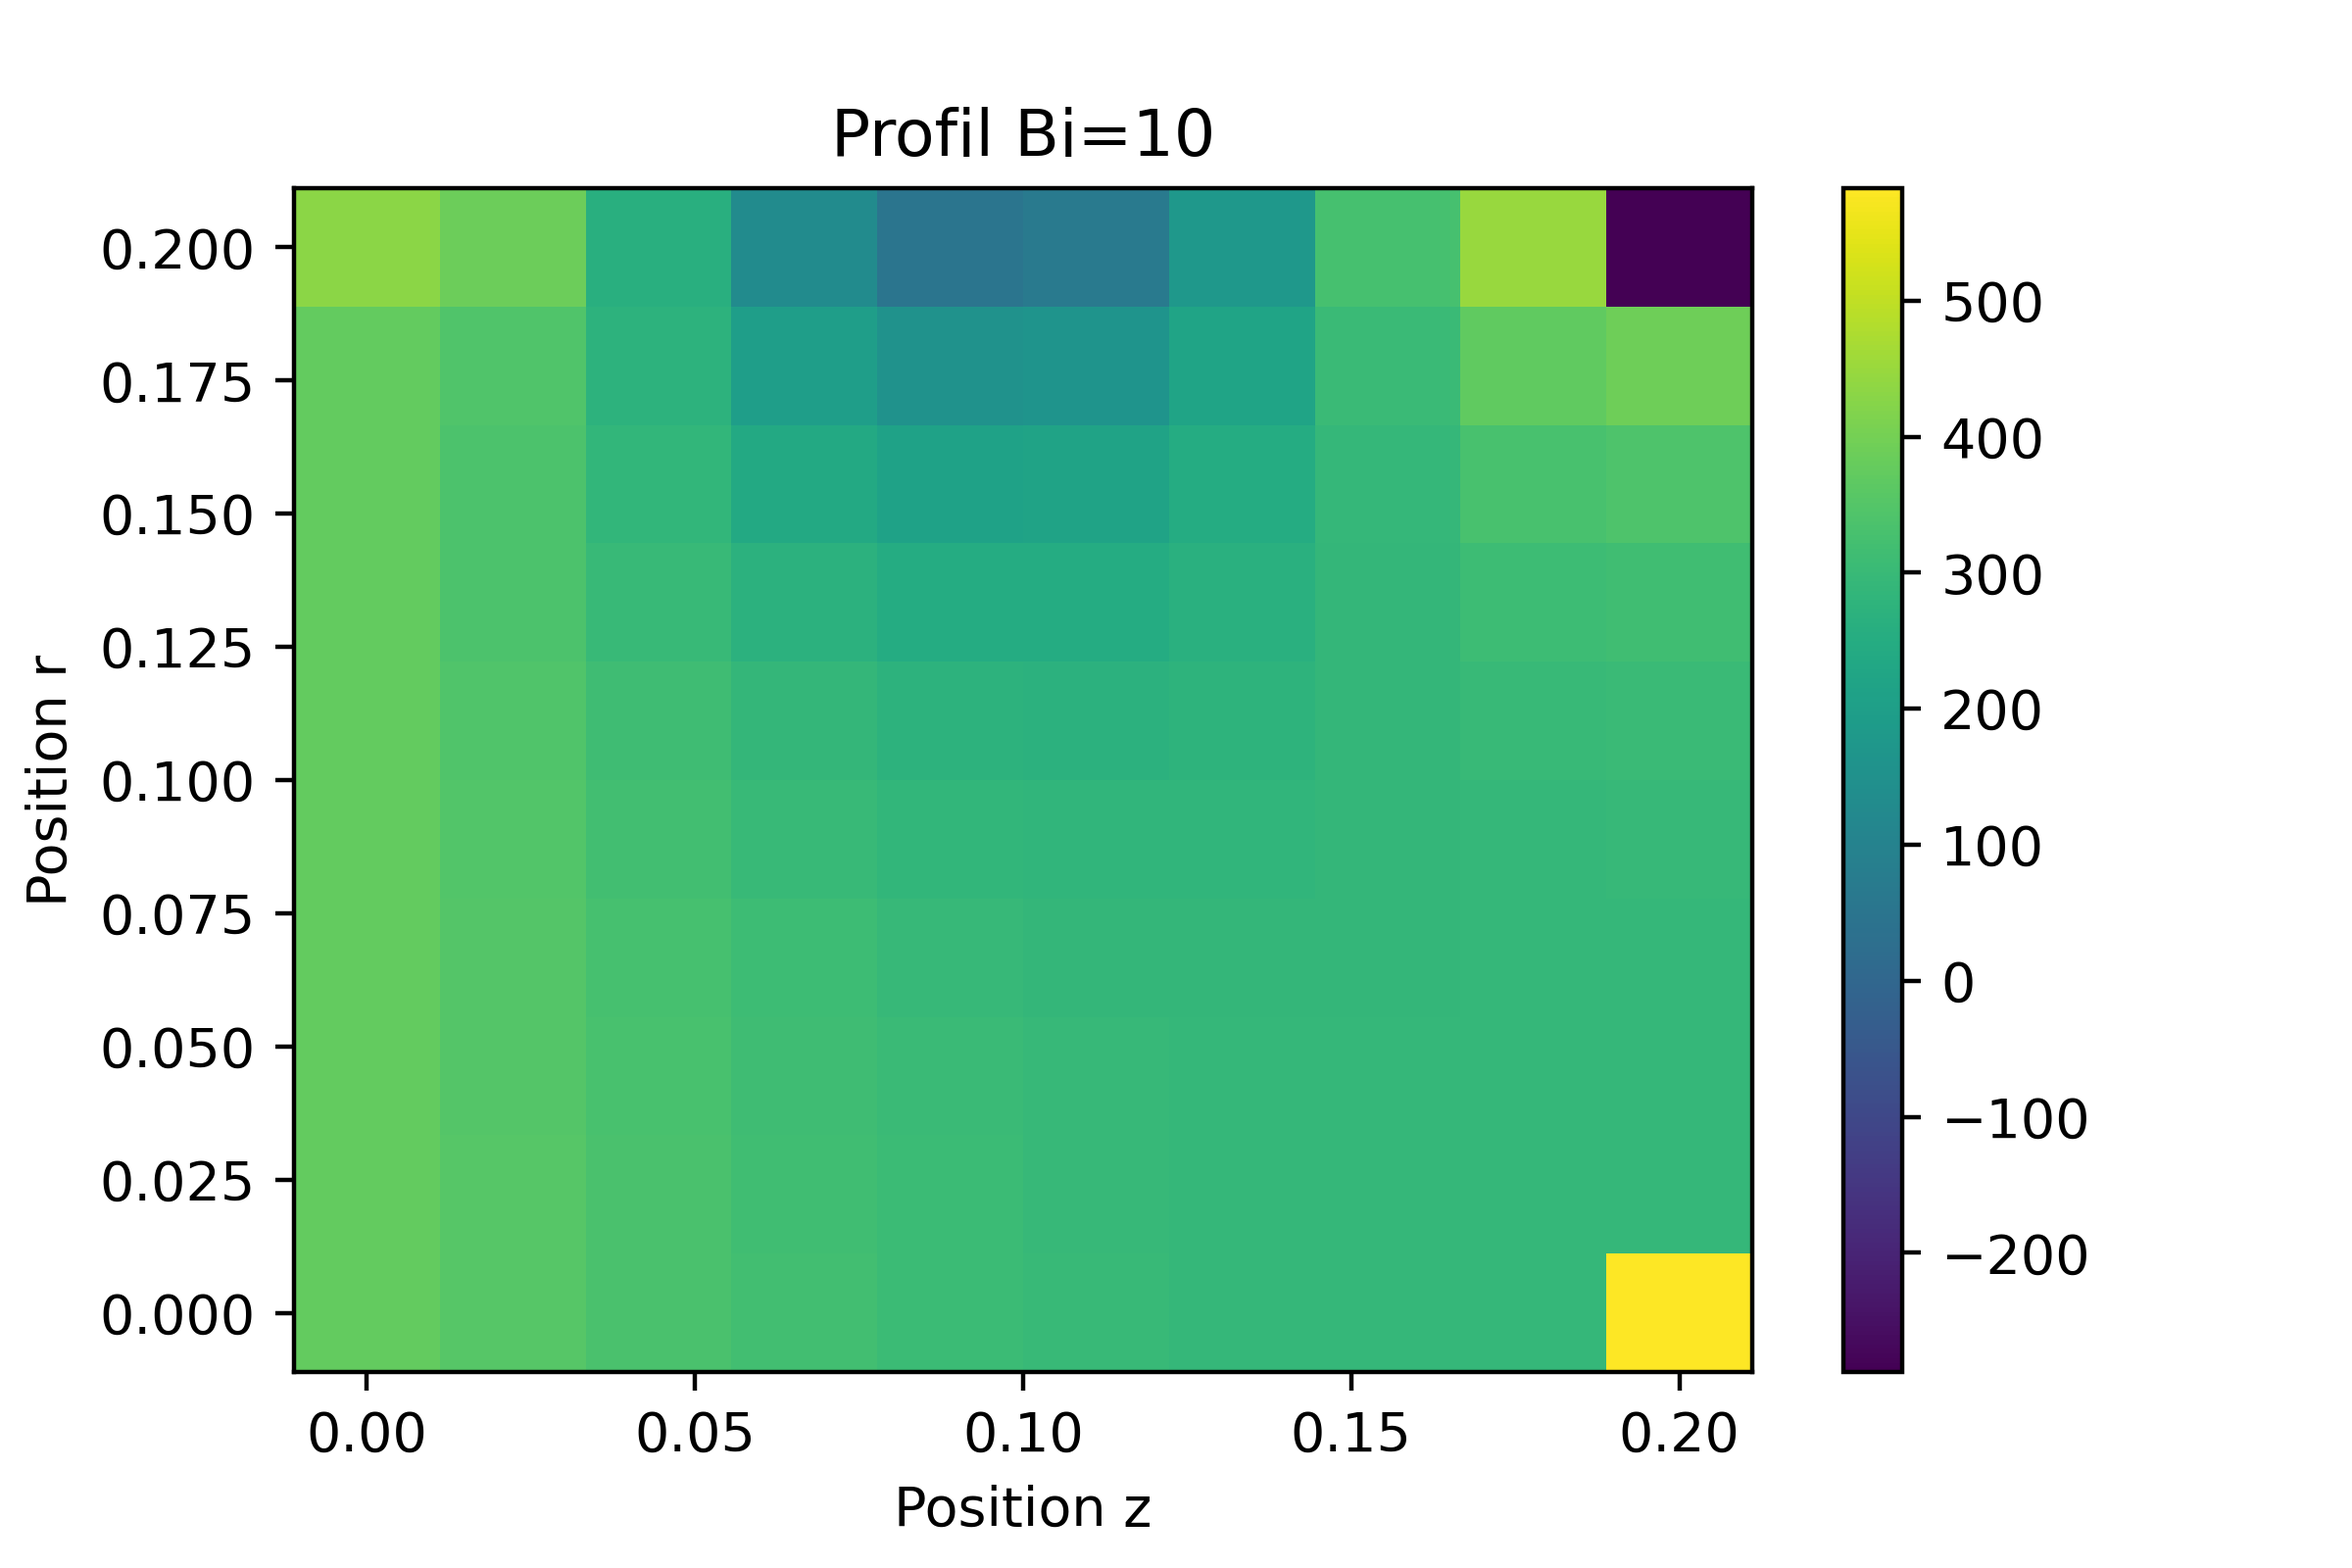
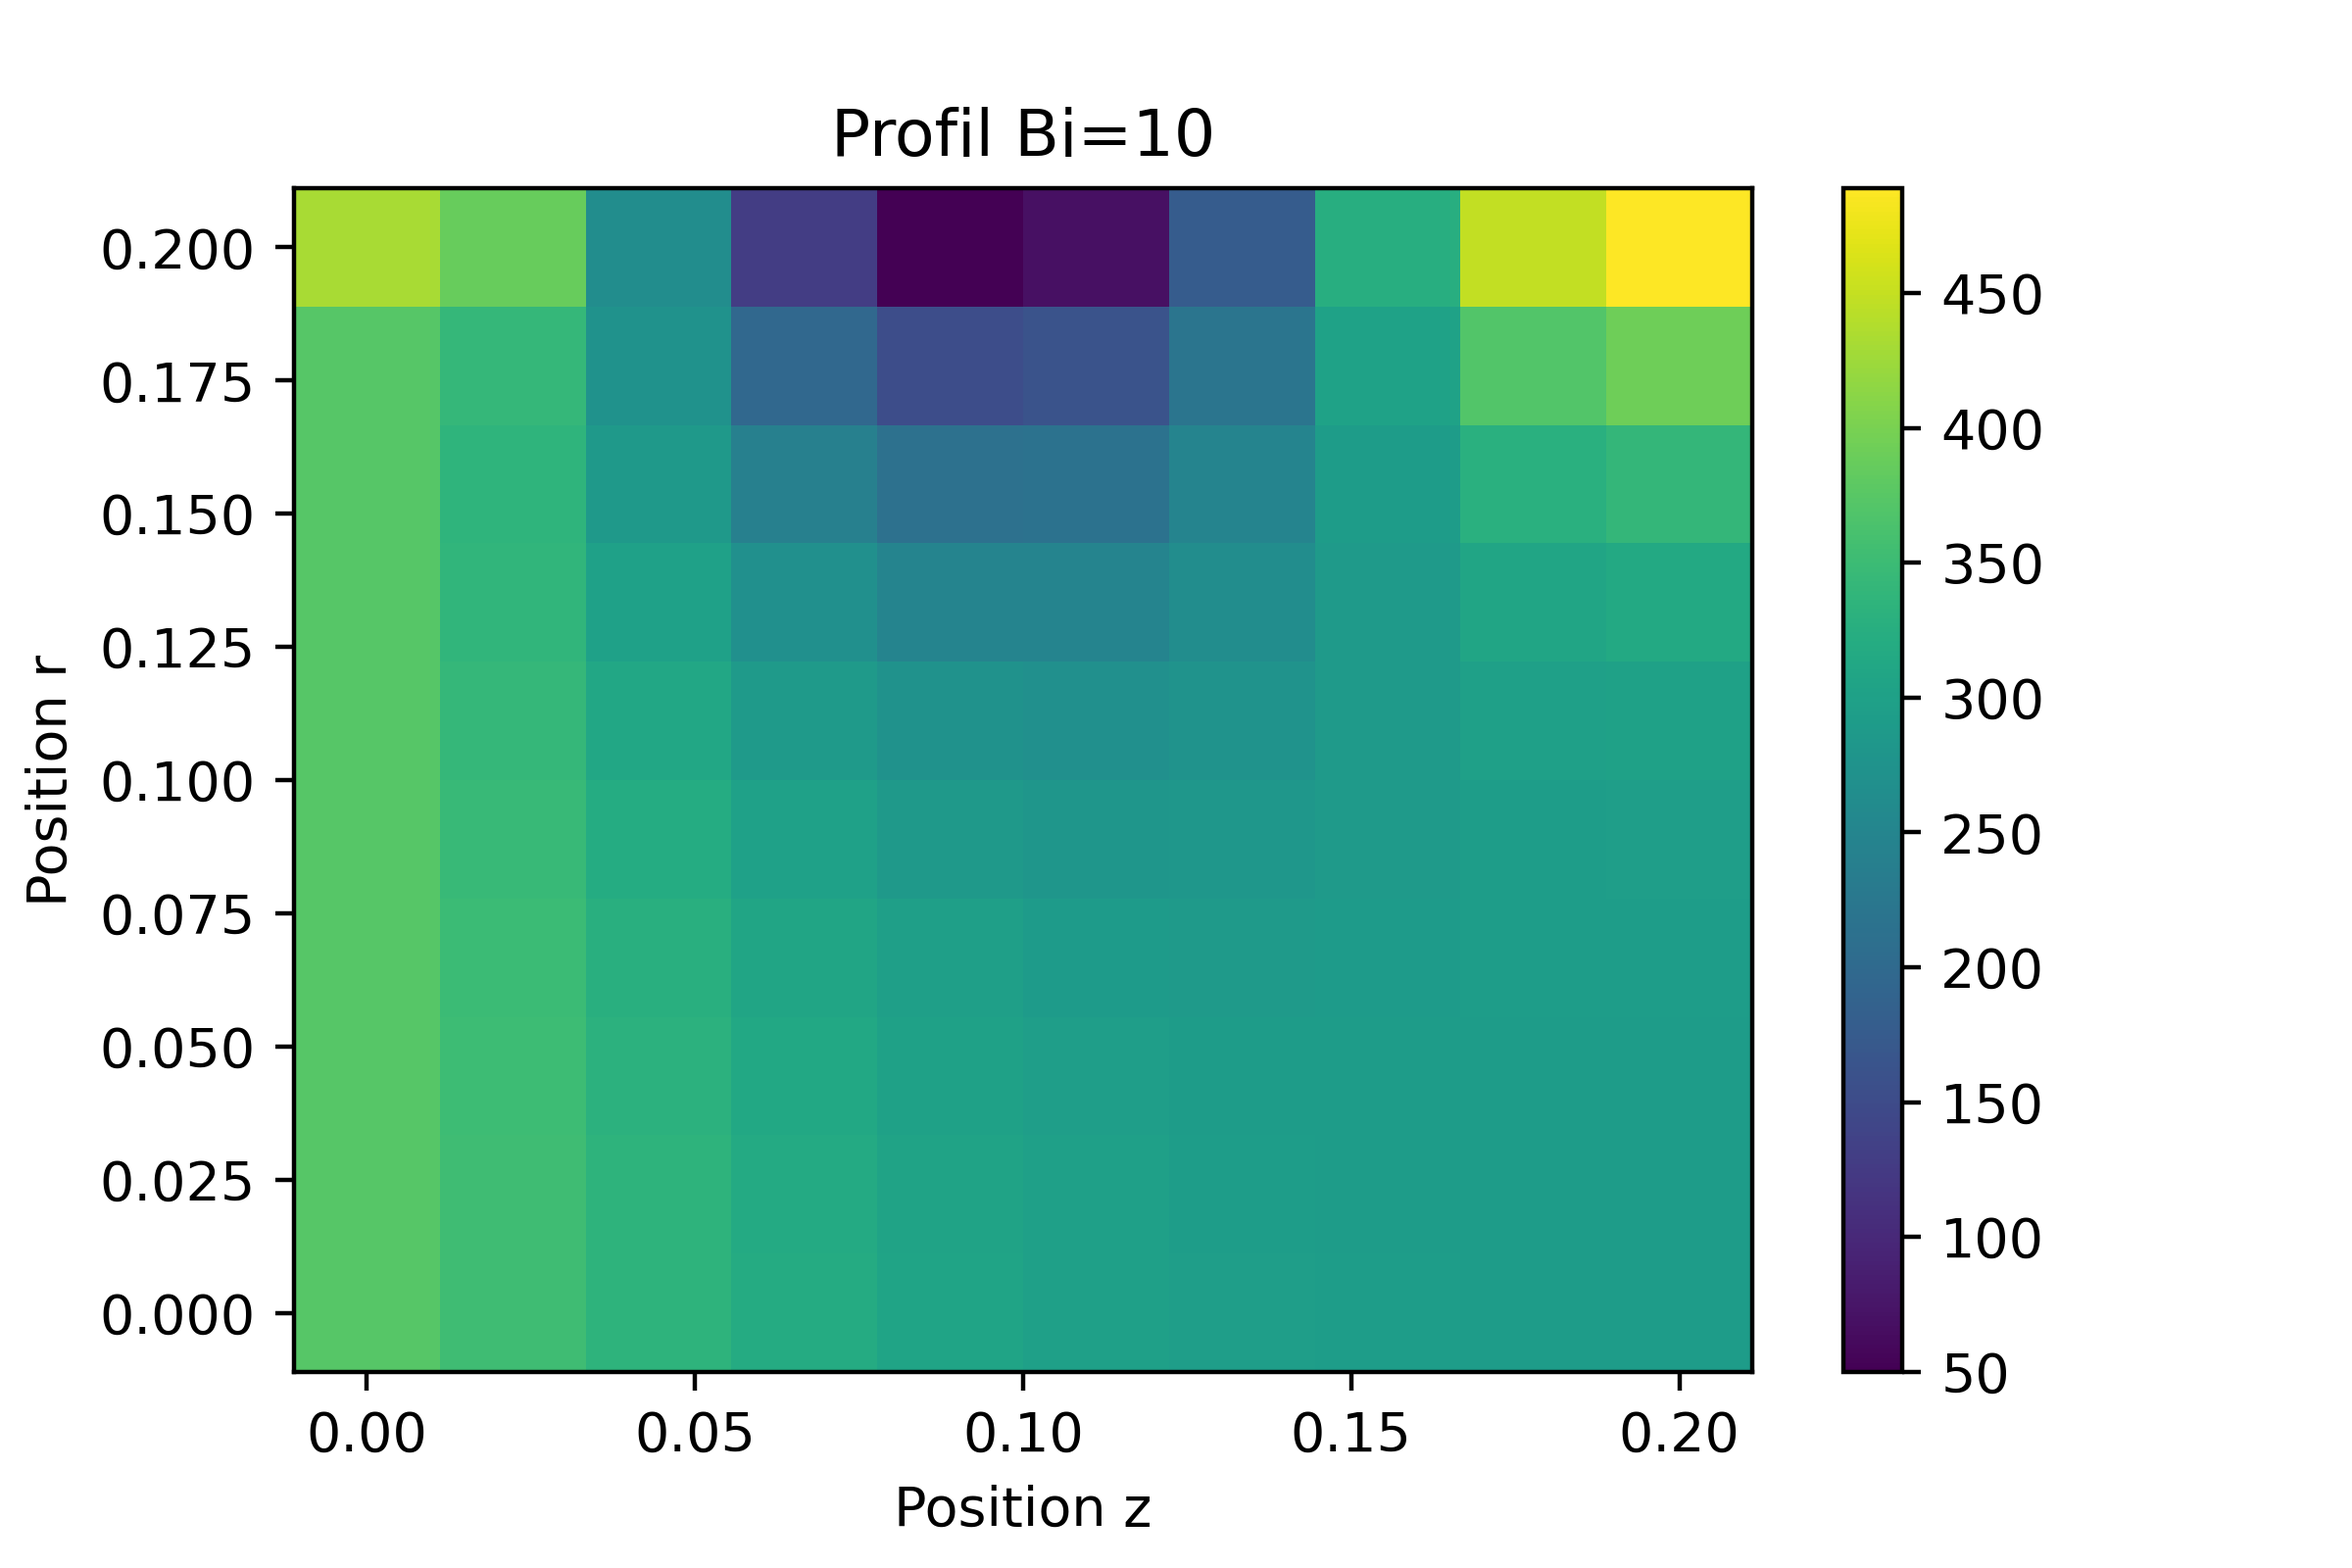
add fix?

diff --git a/profil.py b/profil.py
@@ -35,22 +35,26 @@ def position(X,Y,prm):
     nr = prm.nr
     nz = prm.nz
 
-    # Calcul des pas de discretisation
-    dr = (Y[1] - Y[0]) / (nr-1)
-    dz = (X[1] - X[0]) / (nz-1)
+    # # Calcul des pas de discretisation
+    # dr = (Y[1] - Y[0]) / (nr-1)
+    # dz = (X[1] - X[0]) / (nz-1)
 
     
-    x_ligne=np.linspace(X[0], X[1], nz)
-    x = np.zeros([nr,nz])
-    x[:,:] = x_ligne
+    # x_ligne=np.linspace(X[0], X[1], nz)
+    # x = np.zeros([nr,nz])
+    # x[:,:] = x_ligne
     
-    y_ligne = np.linspace(Y[0], Y[1], nr)
-    y = np.zeros([nr,nz])
-    y[:,:] = y_ligne
-    y = y.T
-    y = np.flipud(y)
+    # y_ligne = np.linspace(Y[0], Y[1], nr)
+    # y = np.zeros([nr,nz])
+    # y[:,:] = y_ligne
+    # y = y.T
+    # y = np.flipud(y)
     
-    return x, y
+    x = np.linspace(X[0], X[1], nz)
+    y = np.linspace(Y[1], Y[0], nr) 
+    xv, yv = np.meshgrid(x, y)
+    
+    return xv, yv
 
 def mdf_assemblage(X,Y,prm):
     """ Fonction assemblant la matrice A et le vecteur b pour résoudre notre profil de température
@@ -121,8 +125,8 @@ def mdf_assemblage(X,Y,prm):
     N = nr*nz
     
     # Calculs des pas de discrtisation
-    dr = (X[1] - X[0]) / (nr-1)
-    dz = (Y[1] - Y[0]) / (nz-1)
+    dr = (Y[1] - Y[0]) / (nr-1)
+    dz = (X[1] - X[0]) / (nz-1)
     
     # Matrices de position pour indexation
     x, y = position(X,Y,prm)
@@ -132,8 +136,6 @@ def mdf_assemblage(X,Y,prm):
     b = np.zeros(N)
 
 
-    
-    
     # Assemblage corps matrice
     for i in range(1, nz-1):
         for j in range(1, nr-1):        
@@ -145,11 +147,9 @@ def mdf_assemblage(X,Y,prm):
             A[k,k] = -2/(dr**2) -2/(dz**2)
             A[k,k+nr] = 1/(dz**2)
             A[k,k-nr] = 1/(dz**2)
-            b[k] = 0
   
     
     # Frontière gauche
-    
     i = 0
     for j in range(0, nr):
         k = i * nr + j
@@ -161,7 +161,7 @@ def mdf_assemblage(X,Y,prm):
     
     if CL=="isole":
         i = nz - 1
-        for j in range(0, nr):
+        for j in range(1, nr-1):
             k = i * nr + j
             A[k,k] = 3
             A[k,k-nr] = -4
@@ -191,11 +191,16 @@ def mdf_assemblage(X,Y,prm):
     # Frontière haut
     j = 0
     for i in range(0, nz):
+        # k = i * nr + j
+        # A[k,k] = -3 + h*2*dr/k_cond  
+        # A[k,k+1] = 4
+        # A[k,k+2] = -1
+        # b[k] = h*2*dr*T_inf/k_cond
         k = i * nr + j
-        A[k,k] = -3 + h*2*dr/k_cond  
-        A[k,k+1] = 4
-        A[k,k+2] = -1
-        b[k] = h*2*dr*T_inf/k_cond
+        A[k,k] = -3*k/(2*dz)-h 
+        A[k,k+1] = 4*k/(2*dz)
+        A[k,k+2] = -1/(2*dz)
+        b[k] = -T_inf*h
 
     
     return A, b # à compléter

diff --git a/main.py b/main.py
@@ -23,8 +23,8 @@ T_w = 100+273.15     # [K] Température de base
 R = .2       # [m] Rayon 
 h = 1      # [W/m^2*K] Coefficient de convection
 Bi = 1
-nr = 10       # [-] Nombre de points en z
-nz = 10
+nr = 100       # [-] Nombre de points en z
+nz = 100
 CL = "isole"
     
 prm = Parametres(L, k, T_inf, T_w, R, h, nr, nz,CL)
@@ -32,6 +32,7 @@ prm = Parametres(L, k, T_inf, T_w, R, h, nr, nz,CL)
 # Paramètres
 X = [0,prm.L]       #Position selon l'axe des z (rayon)
 Y = [0,prm.R]       #Position selon l'axe des r
+
 x,y = position(X, Y, prm)
 #Conditons limites frontières à z=L
 
@@ -43,16 +44,16 @@ x,y = position(X, Y, prm)
 z = np.linspace(0, prm.L, prm.nz)
 T = ref_analytique(z,prm)
 plt.plot(z, T, '--r', label="Profil analytique")
-# list_Bi = [0.1, 1, 10, 20, 100]
-list_Bi = [0.1, 1]
+#list_Bi = [0.1, 1, 10, 20, 100]
+list_Bi = [20]
 
 for Bi_i in list_Bi:
     prm.setBi(Bi_i)
     A,b = mdf_assemblage(X,Y,prm)
     c = np.linalg.solve(A,b) 
-    c_reshaped = c.reshape(prm.nz,prm.nr)
-    c_R = c_reshaped[0,:]
-    c_0 = c_reshaped[-1,:]
+    c_reshaped = c.reshape(prm.nz,prm.nr).transpose()
+    c_R = c_reshaped[0,:].transpose()
+    c_0 = c_reshaped[-1,:].transpose()
     label_0 = "Profil r=0 Bi="+str(prm.Bi)
     label_R = "Profil r="+str(prm.R)+" Bi="+str(prm.Bi)
     plt.plot(x[0,:],c_R,label=label_R)  
@@ -76,17 +77,17 @@ plt.show()
 # prm.setCL("convection")
 # q_contour_convection = inte_fluxContour(T,z,prm)
 #=========================Analyse Bonus=========================
-list_Bi = [0.1, 1, 10, 20, 100]
-for Bi_i in list_Bi:
-    prm.setBi(Bi_i)
-    A,b = mdf_assemblage(X,Y,prm)
-    c = np.linalg.solve(A,b)
-    c_reshaped = c.reshape(prm.nz,prm.nr).transpose()
-    fig,ax = plt.subplots(nrows=1,ncols=1)
-    fig1 = ax.pcolormesh(x,y, c_reshaped)
-    plt.colorbar(fig1, ax=ax)
-    ax.set_title("Profil Bi="+str(prm.Bi))
-    ax.set_xlabel("Position z")
-    ax.set_ylabel("Position r")
-    plt.savefig("Profil2D_Bi"+str(prm.Bi)+".png", dpi=400)
-    plt.show()
+# list_Bi = [0.1, 1, 10, 20, 100]
+# for Bi_i in list_Bi:
+#     prm.setBi(Bi_i)
+#     A,b = mdf_assemblage(X,Y,prm)
+#     c = np.linalg.solve(A,b)
+#     c_reshaped = c.reshape(prm.nz,prm.nr).transpose()
+#     fig,ax = plt.subplots(nrows=1,ncols=1)
+#     fig1 = ax.pcolormesh(x,y, c_reshaped)
+#     plt.colorbar(fig1, ax=ax)
+#     ax.set_title("Profil Bi="+str(prm.Bi))
+#     ax.set_xlabel("Position z")
+#     ax.set_ylabel("Position r")
+#     plt.savefig("Profil2D_Bi"+str(prm.Bi)+".png", dpi=400)
+#     plt.show()
